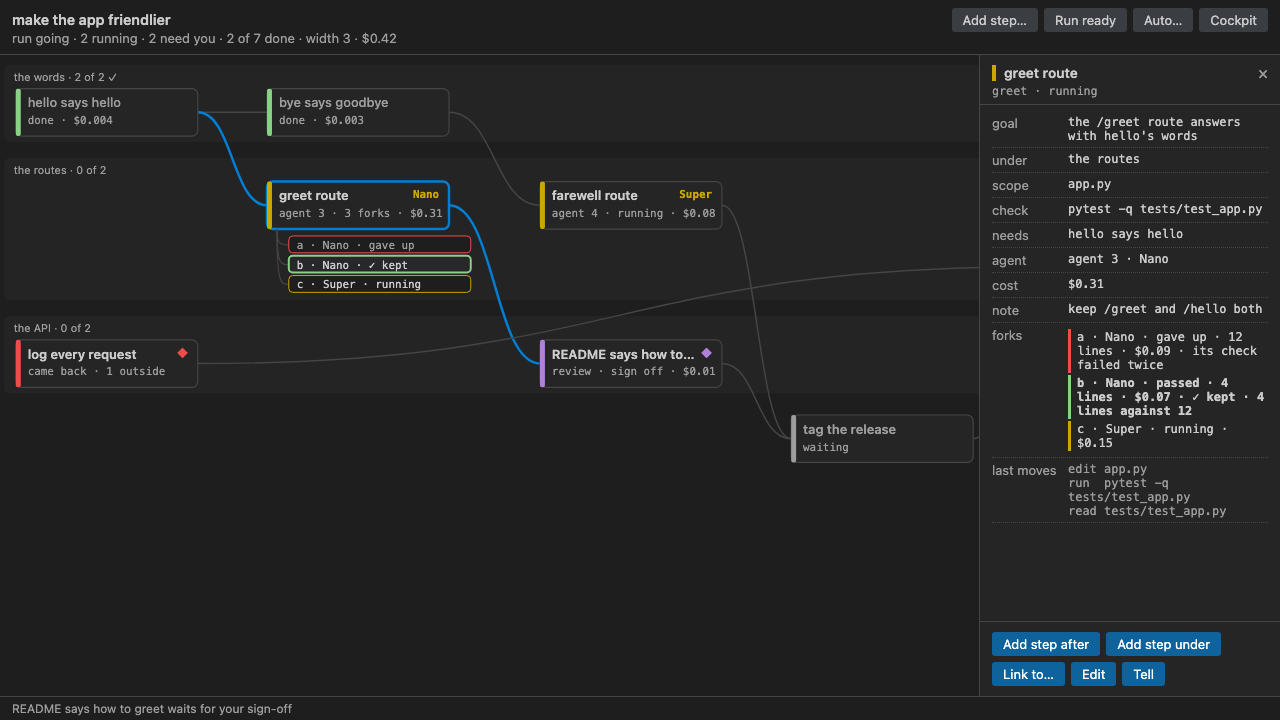
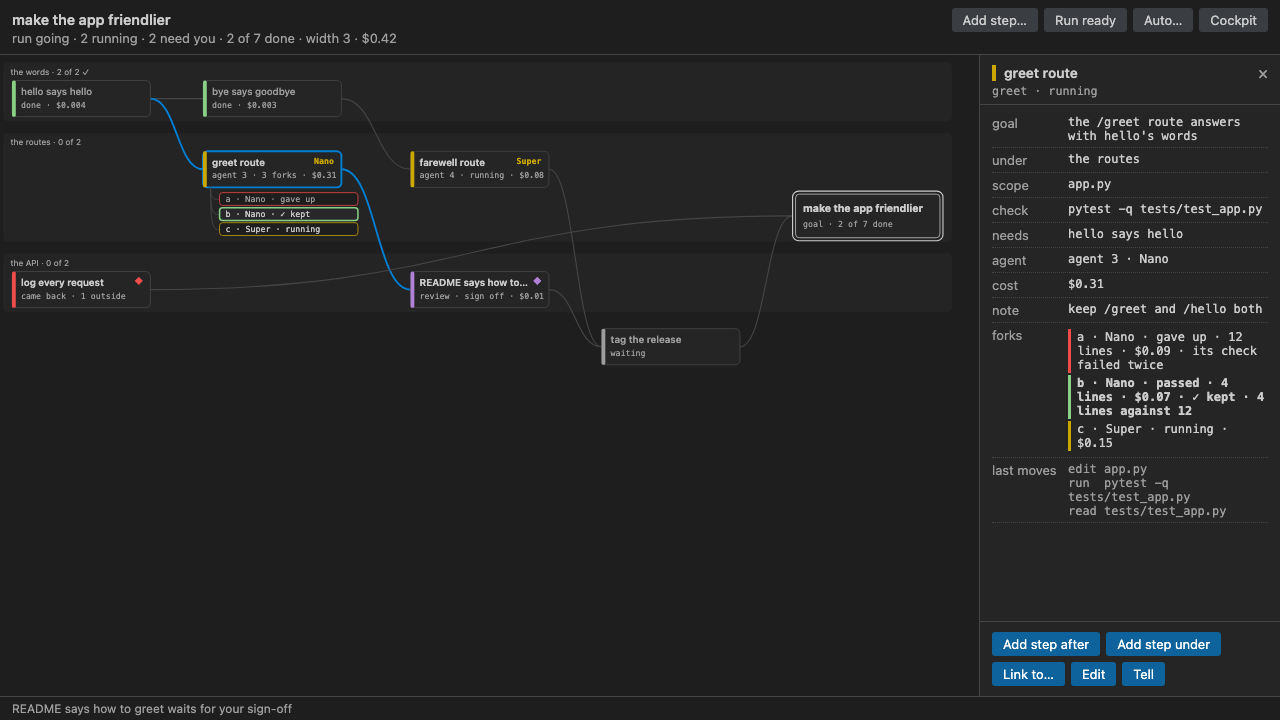
a stranger's first try: auto names --planner and touches no envelope when nothing can start; VS Code's graph keeps the goal in view
Folded from 2 commits of the night:

- editors/vscode: the graph keeps the goal in view as the details open, and a round counts as the cockpit's
- auto: a first try says --planner, touches no envelope when nothing can start, and a planner with no key says so

diff --git a/editors/vscode/src/graph/main.ts b/editors/vscode/src/graph/main.ts
@@ -22,6 +22,7 @@ let selected: string | null = null;
 let linking: string | null = null;
 let zoom = { k: 1, tx: 0, ty: 0 };
 let fitted = false;
+let moved = false; // the person zoomed or panned: a resize no longer re-fits until a double-click
 
 function el<K extends keyof SVGElementTagNameMap>(tag: K, attrs: Record<string, string | number> = {}, text?: string) {
   const node = document.createElementNS(svgNS, tag);
@@ -175,8 +176,10 @@ function render() {
 
 function fit() {
   if (!lay) return;
-  const room = $("canvas").clientWidth || 800;
-  zoom = { k: Math.min(1, Math.max(0.35, (room - 24) / Math.max(lay.width, 1))), tx: 0, ty: 0 };
+  const canvas = $("canvas");
+  const w = canvas.clientWidth || 800, h = canvas.clientHeight || 600; // both: the goal is last on the right
+  const k = Math.min(1, (w - 24) / Math.max(lay.width, 1), (h - 24) / Math.max(lay.height, 1));
+  zoom = { k: Math.max(0.35, k), tx: 0, ty: 0 };
   fitted = true;
 }
 
@@ -345,6 +348,7 @@ function wire() {
     const px = e.clientX - rect.left + canvas.scrollLeft, py = e.clientY - rect.top + canvas.scrollTop;
     const k = Math.min(3, Math.max(0.25, zoom.k * Math.exp(-e.deltaY * 0.0015)));
     zoom = { k, tx: px - (px - zoom.tx) * (k / zoom.k), ty: py - (py - zoom.ty) * (k / zoom.k) };
+    moved = true;
     applyZoom();
   }, { passive: false });
   let drag: { x: number; y: number; tx: number; ty: number } | null = null;
@@ -356,14 +360,24 @@ function wire() {
   window.addEventListener("mousemove", (e) => {
     if (!drag) return;
     zoom = { ...zoom, tx: drag.tx + e.clientX - drag.x, ty: drag.ty + e.clientY - drag.y };
+    moved = true;
     applyZoom();
   });
   window.addEventListener("mouseup", () => { drag = null; canvas.classList.remove("dragging"); });
   canvas.addEventListener("dblclick", (e) => {
     if ((e.target as Element).closest(".task, .goal")) return;
     fitted = false;
+    moved = false;
     render();
   });
+  // the details pane opening narrows the canvas, as does a narrower window: the whole graph stays in view, the
+  // goal box included, until the person zooms or pans themselves
+  new ResizeObserver(() => {
+    if (lay && !moved) {
+      fit();
+      applyZoom();
+    }
+  }).observe(canvas);
   $("b-run").addEventListener("click", () => api.postMessage({ type: "act", act: "run", id: "" }));
   $("b-auto").addEventListener("click", () => api.postMessage({ type: "act", act: "auto", id: "" }));
   $("b-cockpit").addEventListener("click", () => api.postMessage({ type: "act", act: "cockpit", id: "" }));

diff --git a/editors/vscode/src/state.ts b/editors/vscode/src/state.ts
@@ -201,12 +201,13 @@ export function summary(s: State): string {
   return parts.join(" · ");
 }
 
-/** The auto header: `auto · round 1 of 2 · running · $0.42 of $2.00`; empty when auto is off. */
+/** The auto header, as the cockpit's: `auto · round 1 of 3 · running · $0.42 of $2.00` (a round is the first plan or
+ * a fix round, `rounds + 1` in all); a fix round says what the goal failed on; empty when auto is off. */
 export function autoLine(s: State): string {
   const a = s.auto;
   if (!a || s.envelope.auto !== "on" && !a.stage) return "";
   const parts = ["auto"];
-  if (a.round !== null) parts.push(a.rounds !== null ? `round ${a.round} of ${a.rounds}` : `round ${a.round}`);
+  if (a.round !== null) parts.push(a.rounds !== null ? `round ${a.round} of ${a.rounds + 1}` : `round ${a.round}`);
   if (a.stage) parts.push(a.stage);
   const spent = a.spent === null ? "" : usd(a.spent) || "$0.00";
   if (spent) parts.push(a.budget !== null ? `${spent} of ${usd(a.budget) || "$0.00"}` : spent);

diff --git a/editors/vscode/test/state.test.ts b/editors/vscode/test/state.test.ts
@@ -42,7 +42,7 @@ test("auto waiting reads as a header with the round, the stage and the spend of 
   const s = parseState(fixture("auto"));
   assert.equal(s.envelope.auto, "on");
   assert.equal(s.auto?.stage, "waits");
-  assert.equal(autoLine(s), "auto · round 2 of 2 · waits · $1.37 of $2.00 · the goal's check is still red after 2 rounds");
+  assert.equal(autoLine(s), "auto · round 2 of 3 · waits · $1.37 of $2.00 · the goal's check is still red after 2 rounds");
   assert.equal(summary(s), "1 needs you · $1.37");
 });
 

diff --git a/tests/test_auto_first_steps.py b/tests/test_auto_first_steps.py
@@ -1,0 +1,35 @@
+# ruff: noqa: F811  (pytest fixtures imported from test_plan_cli are named again as arguments)
+"""A stranger's first `graphene auto`, as the night's walk found it: before `graphene init` it named `--with`,
+which is the executor's flag here, and it had already turned auto on for a command that started nothing; with
+no Token Factory key the reason came wrapped in three others."""
+
+from test_plan_cli import person, repo  # noqa: F401  (fixtures)
+
+from graphene_map import settings as S
+from graphene_map.store import Store
+
+
+def test_no_planner_chosen_says_planner_and_leaves_the_envelope_as_it_was(repo):
+    said = person("auto", "add a --top N option", "--budget", "2")
+    assert said.exit_code == 1
+    assert "no planner is chosen for this repo" in said.output and "`--planner claude`" in said.output
+    assert "--with claude" not in said.output
+    with Store.open(repo) as store:
+        assert (S.auto(store), S.budget(store)) == ("off", None)  # nothing started, nothing turned on
+
+
+def test_no_executor_chosen_says_with(repo):
+    said = person("auto", "add a --top N option", "--planner", "claude")
+    assert said.exit_code == 1
+    assert "no executor is chosen for this repo" in said.output and "`--with claude`" in said.output
+    with Store.open(repo) as store:
+        assert S.auto(store) == "off"
+
+
+def test_a_planner_that_cannot_start_says_why_in_one_reason(repo, monkeypatch):
+    monkeypatch.delenv("NEBIUS_API_KEY", raising=False)
+    said = person("auto", "add a --top N option", "--planner", "nemotron", "--with", "nemotron")
+    assert said.exit_code == 3
+    line = [x for x in said.output.splitlines() if x.startswith("waits for you: ")][-1]
+    assert line.startswith("waits for you: the planner could not start: NEBIUS_API_KEY is not set"), line
+    assert "nothing was added" not in line and "(exit 3)" not in line

diff --git a/src/graphene_map/auto_cli.py b/src/graphene_map/auto_cli.py
@@ -48,6 +48,14 @@ def register(cli: typer.Typer, root, open_store, fail) -> None:
         if len(withs) > P.FORKS[-1]:
             fail(f"--with at most {P.FORKS[-1]} times: each is a fork", 2)
         files = P.tracked(r)  # before the plan's write lock, never under it
+        with open_store(r) as store:  # who would plan and do it: asked before the envelope is touched
+            chosen = {"planner": planner or store.meta("planner"),
+                      "executor": withs or store.meta("executor")}  # fmt: skip
+        for who_, flag in (("planner", "--planner"), ("executor", "--with")):
+            if not chosen[who_]:
+                fail(f"no {who_} is chosen for this repo, so nothing was started and your envelope is as it "
+                     f"was: `graphene init` chooses one, or `{flag} claude` (or codex, nemotron, a command) "
+                     "names one for `graphene auto`", 1)  # fmt: skip
         given = {"auto": "on", "budget": "" if budget is None else f"{budget}", "tasks": "" if tasks is None
                  else str(tasks), "rounds": "" if rounds is None else str(rounds)}  # fmt: skip
         given = {k: v for k, v in given.items() if v or k == "auto"}  # a flag left out keeps the setting

diff --git a/src/graphene_map/auto.py b/src/graphene_map/auto.py
@@ -317,7 +317,11 @@ def drive(open_store: Callable, root: Path, goal: str | None, say: Callable[[str
                                             planner=spec, base_parent=root_id):  # fmt: skip
                                 say(line)
                         except P.Refused as no:
-                            why, paid = f"the planner proposed nothing: {no}", spent(store, at)
+                            # a planner that could not work at all (exit 3: no key, a cap) says why, alone
+                            cannot = re.search(r"\(exit 3\): stopped: (.+)", str(no))
+                            why = (f"the planner could not start: {cannot.group(1)}" if cannot
+                                   else f"the planner proposed nothing: {no}")  # fmt: skip
+                            paid = spent(store, at)
                             log(store, k, "waits", paid, budget, red, why, root=root_id, goal=goal)
                             say(f"{WAITS}{why}")
                             return 3
